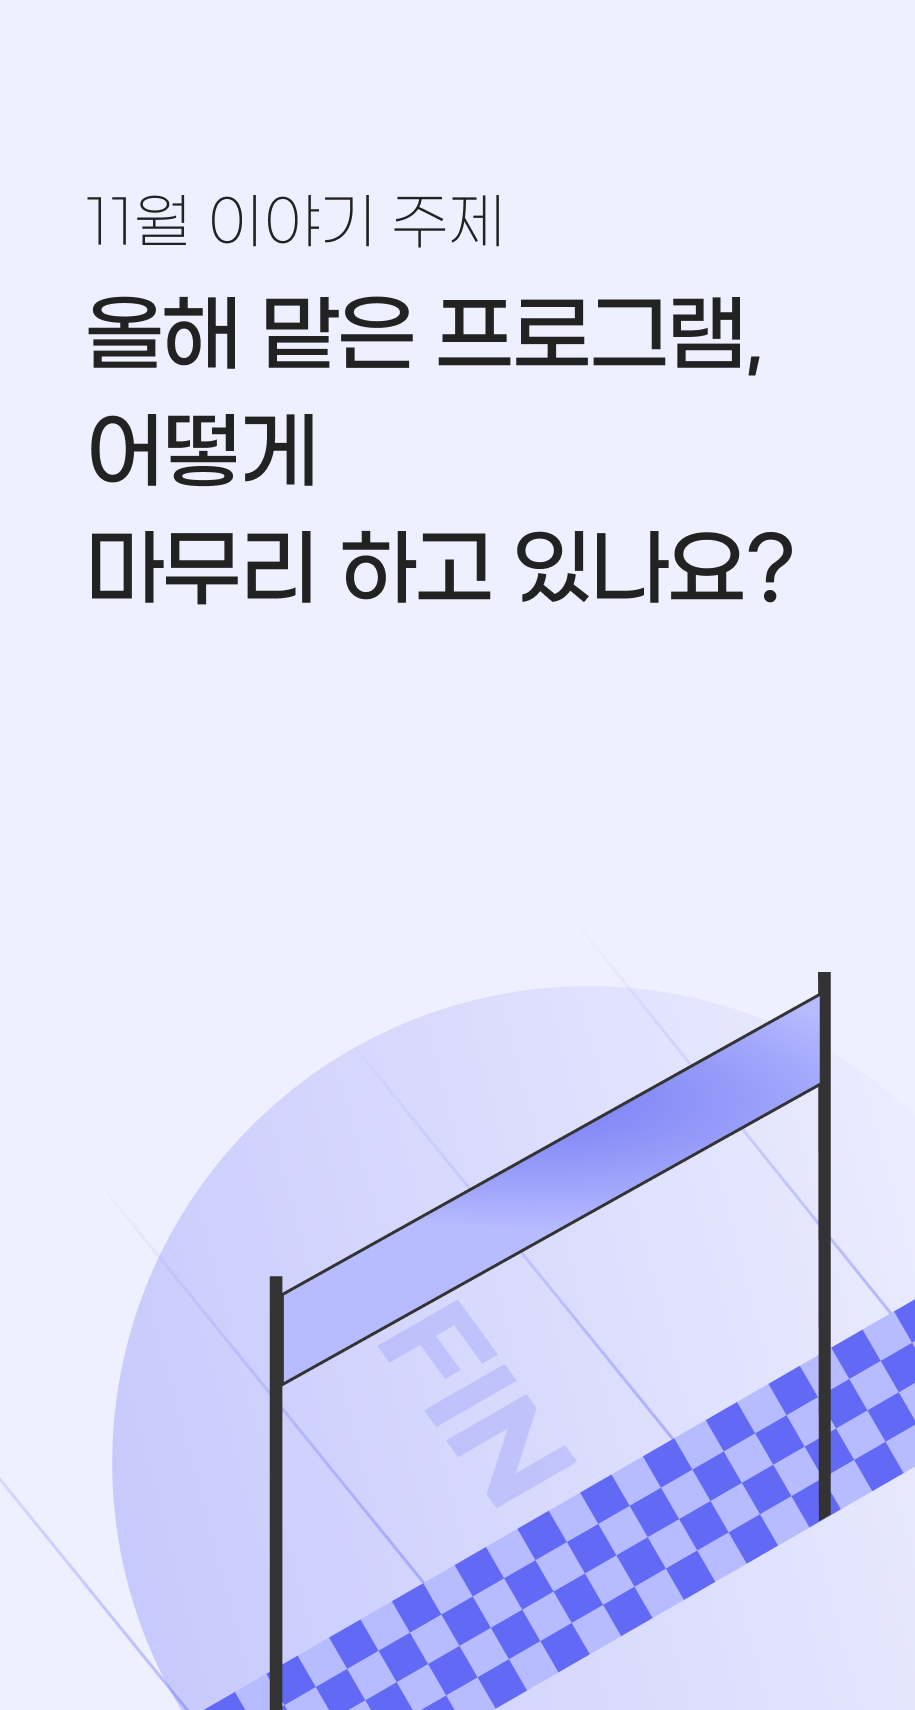
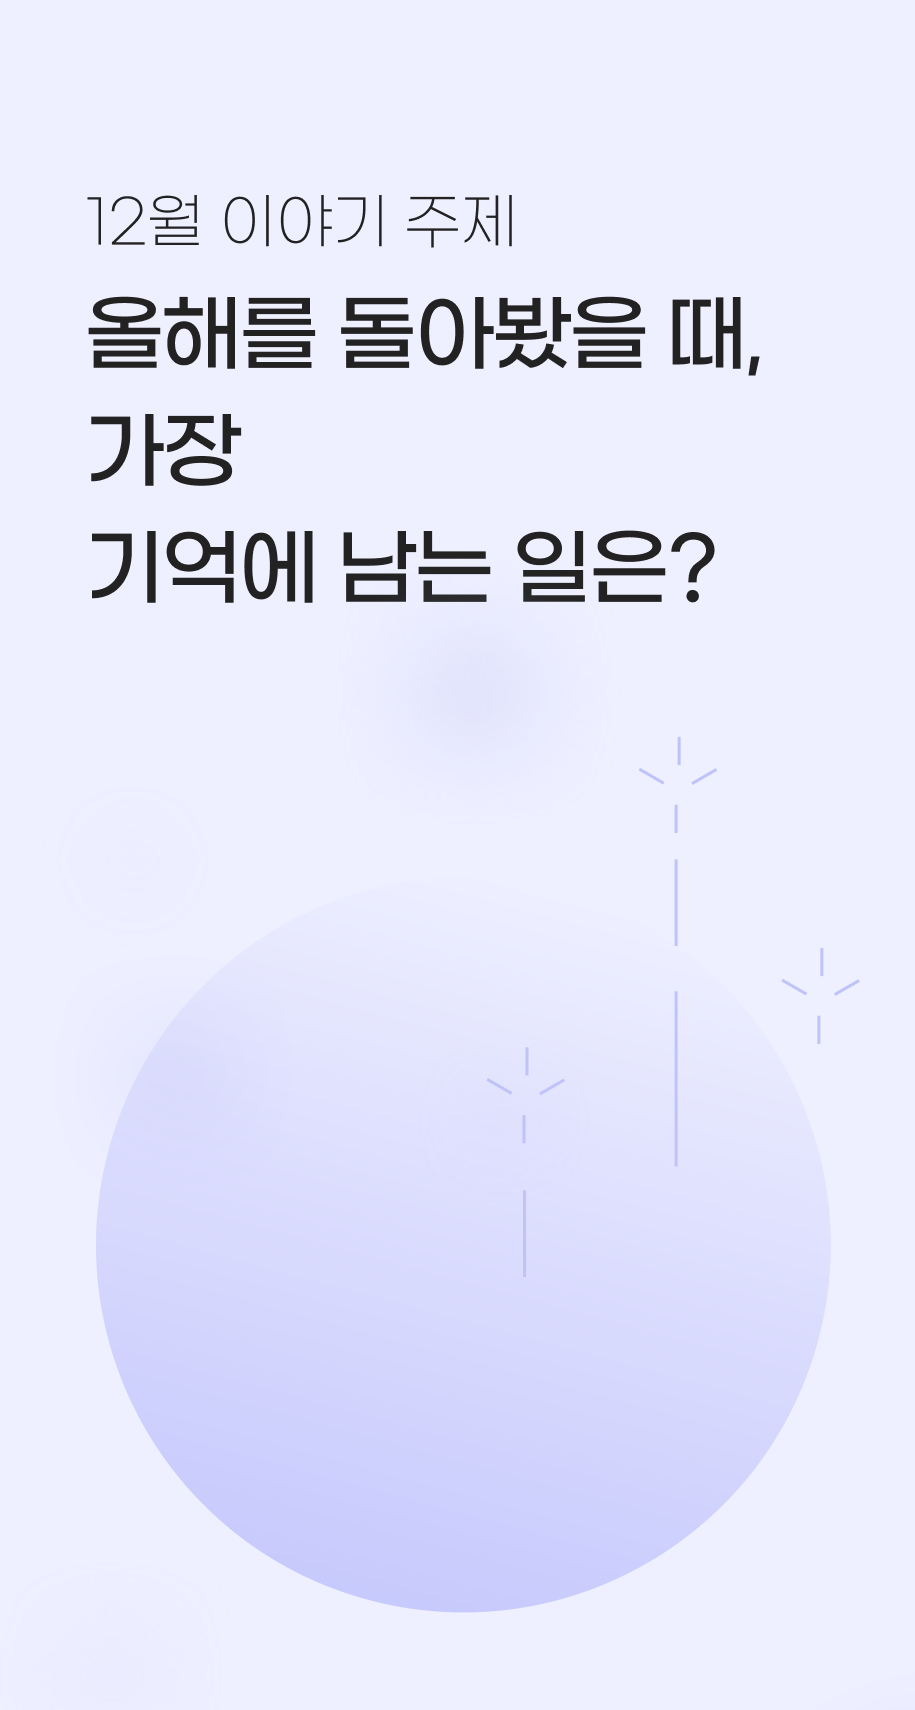
feat: 월별 주제 변경

diff --git a/src/pages/common/Home.tsx b/src/pages/common/Home.tsx
@@ -279,23 +279,23 @@ const Home = () => {
               <div
                 className={styles.opacity}
                 onClick={
-                  winInnerWidth < 768 ? () => navigate("/notice/15") : () => {}
+                  winInnerWidth < 768 ? () => navigate("/notice/16") : () => {}
                 }
               ></div>
               <div className={styles.content}>
                 <button
                   className="tab_show"
                   type="button"
-                  onClick={() => navigate("/notice/15")}
+                  onClick={() => navigate("/notice/16")}
                 >
                   이벤트 참여하기
                 </button>
                 {winInnerWidth >= 768 ? (
-                  <h3>11월 이벤트</h3>
+                  <h3>12월 이벤트</h3>
                 ) : (
-                  <h4>11월 이벤트</h4>
+                  <h4>12월 이벤트</h4>
                 )}
-                <span>올해 맡은 프로그램, 어떻게 마무리 하고 있나요?</span>
+                <span>올해를 돌아봤을 때, 가장 기억남는 일은?</span>
               </div>
             </div>
             <div className={`${styles.banner} ${styles.banner_training}`}>

diff --git a/src/pages/community/Community.tsx b/src/pages/community/Community.tsx
@@ -79,19 +79,19 @@ const Community = () => {
           <div
             className={styles.opacity}
             onClick={
-              winInnerWidth < 768 ? () => navigate("/notice/15") : () => {}
+              winInnerWidth < 768 ? () => navigate("/notice/16") : () => {}
             }
           ></div>
           <div className={styles.content}>
             <button
               className="tab_show"
               type="button"
-              onClick={() => navigate("/notice/15")}
+              onClick={() => navigate("/notice/16")}
             >
               이벤트 참여하기
             </button>
-            <h4>11월 이벤트</h4>
-            <span>올해 맡은 프로그램, 어떻게 마무리 하고 있나요?</span>
+            <h4>12월 이벤트</h4>
+            <span>올해를 돌아봤을 때, 가장 기억남는 일은?</span>
           </div>
         </div>
         <div className={styles.weekly_wrap}>
